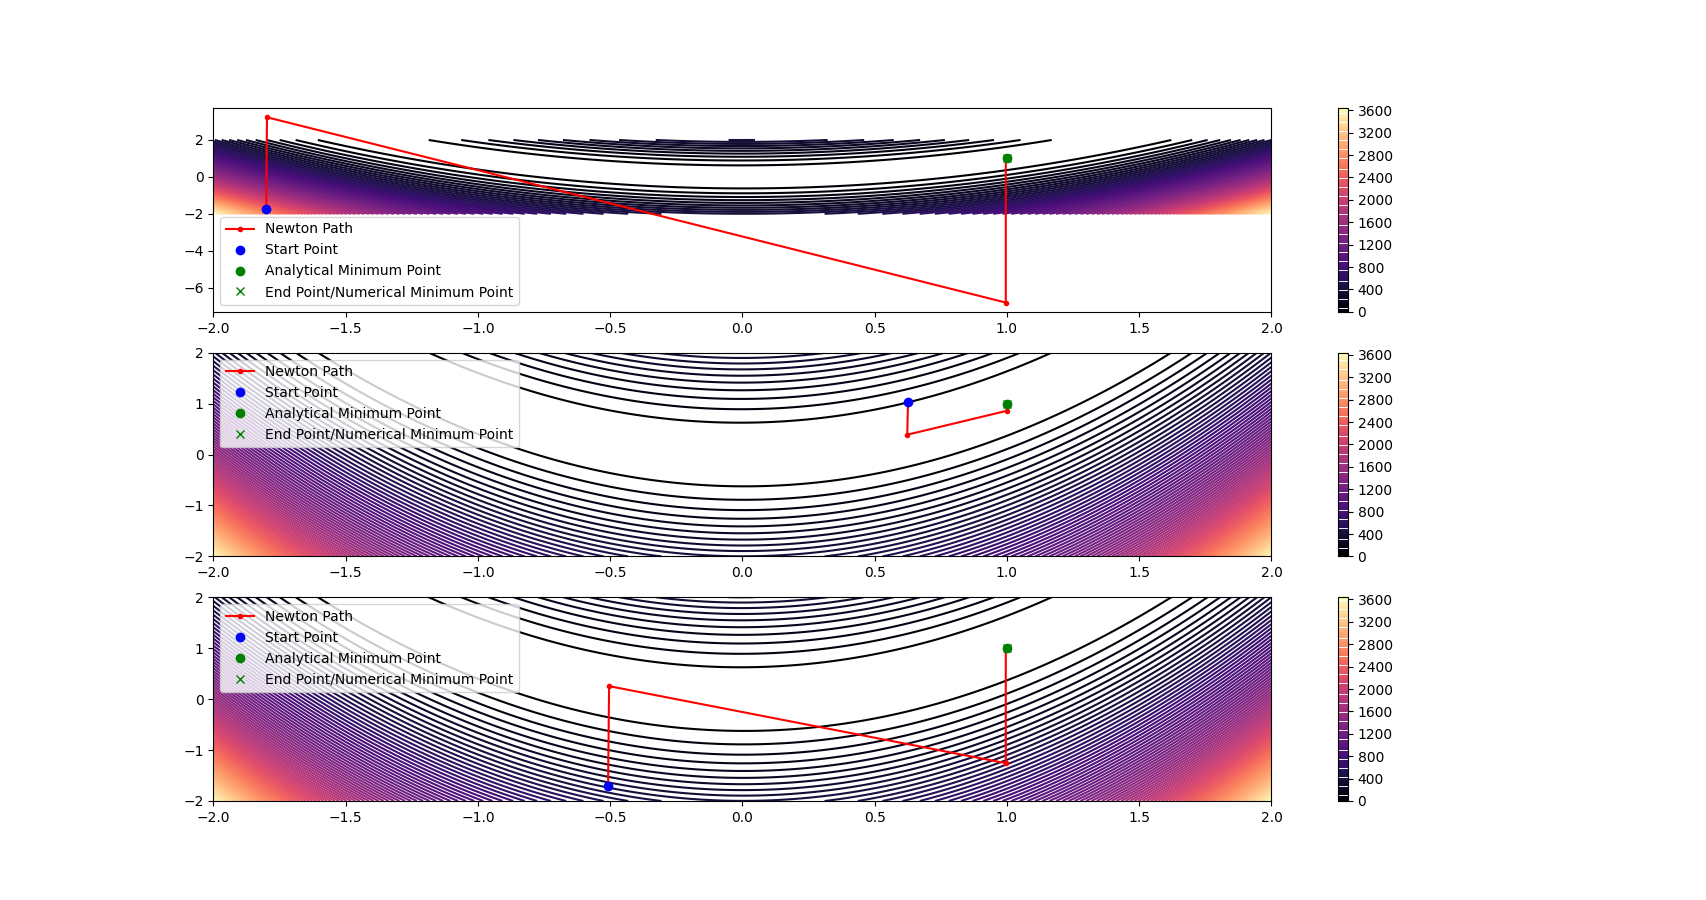
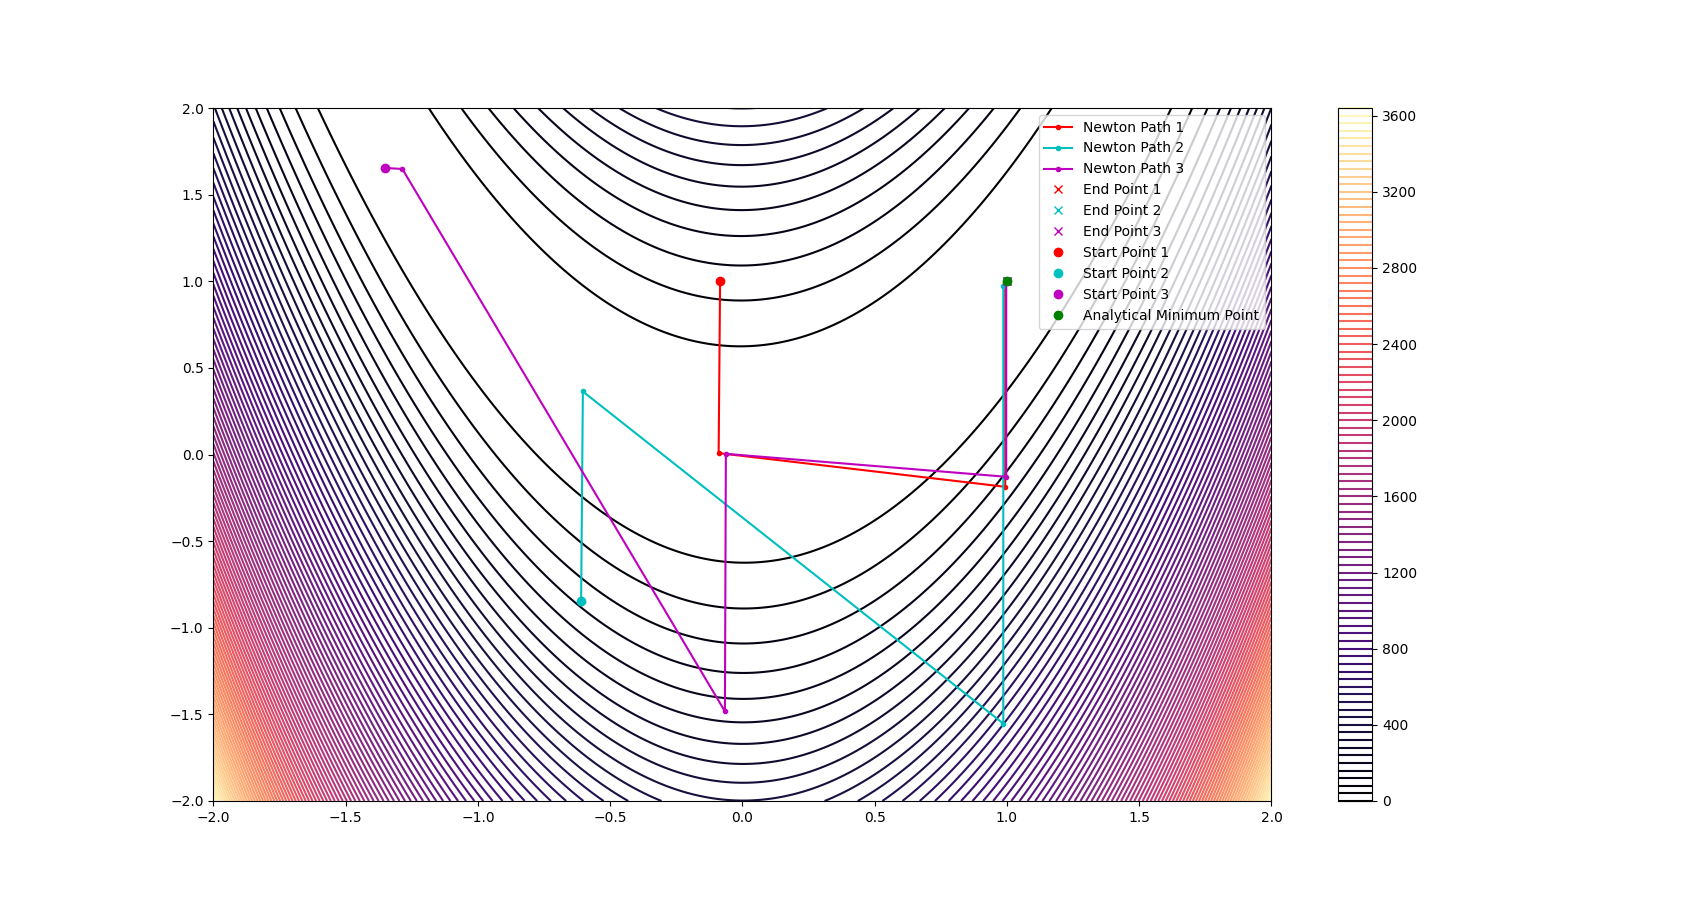
Improvements to consolidate all plots on same axes in Task 2

Changed region(s): [[0.0932, 0.1244, 0.7456, 0.9022], [0.7767, 0.1244, 0.8388, 0.9022]]

diff --git a/task2.py b/task2.py
@@ -15,13 +15,9 @@ f = 100*(y-x**2)**2 + (1-x)**2
 # plt.show()
 
 # Create 2D contour plots
-fig2, ax2 = plt.subplots(3, 1)           # 2D axes (not projection='3d')
-contour1 = ax2[0].contour(x, y, f, 100, cmap='magma')
-contour2 = ax2[1].contour(x, y, f, 100, cmap='magma')
-contour3 = ax2[2].contour(x, y, f, 100, cmap='magma')
-fig2.colorbar(contour1)
-fig2.colorbar(contour2)
-fig2.colorbar(contour3)
+fig2, ax2 = plt.subplots(1, 1)           # 2D axes (not projection='3d')
+contour = ax2.contour(x, y, f, 100, cmap='magma')
+fig2.colorbar(contour)
 
 # GRADIENT DESCENT START
 # Calculate gradient of the Rosenbrock function at a given point
@@ -86,32 +82,29 @@ learning_rate = 0.001
 iterations = 20000
 
 # Choose gradient descent, Newton's method, or Gauss-Newton method
-path1 = gradient_descent(start_point1, learning_rate, iterations)
-path2 = gradient_descent(start_point2, learning_rate, iterations)
-path3 = gradient_descent(start_point3, learning_rate, iterations)
-# path1 = newtons_method(start_point1, 20)
-# path2 = newtons_method(start_point2, 20)
-# path3 = newtons_method(start_point3, 20)
+# path1 = gradient_descent(start_point1, learning_rate, iterations)
+# path2 = gradient_descent(start_point2, learning_rate, iterations)
+# path3 = gradient_descent(start_point3, learning_rate, iterations)
+path1 = newtons_method(start_point1, 20)
+path2 = newtons_method(start_point2, 20)
+path3 = newtons_method(start_point3, 20)
 # path1 = gauss_newton_method(start_point1, 20)
 # path2 = gauss_newton_method(start_point2, 20)
 # path3 = gauss_newton_method(start_point3, 20)
 
 # Plot the path on the above contour plot
-ax2[0].plot(path1[:,0], path1[:,1], 'r.-')  # Plot the path in red
-ax2[0].plot(start_point1[0], start_point1[1], 'bo')  # Starting point in blue
-ax2[0].plot(1, 1, 'go')  # Analytical minimum point in green dot
-ax2[0].plot(path1[-1,0], path1[-1,1], 'gx')  # Ending point in green cross
-ax2[0].legend(['Gradient Descent Path', 'Start Point', 'Analytical Minimum Point', 'End Point/Numerical Minimum Point'])
-ax2[1].plot(path2[:,0], path2[:,1], 'r.-')  # Plot the path in red
-ax2[1].plot(start_point2[0], start_point2[1], 'bo')  # Starting point in blue
-ax2[1].plot(1, 1, 'go')  # Analytical minimum point in green dot
-ax2[1].plot(path2[-1,0], path2[-1,1], 'gx')  # Ending point in green cross
-ax2[1].legend(['Gradient Descent Path', 'Start Point', 'Analytical Minimum Point', 'End Point/Numerical Minimum Point'])
-ax2[2].plot(path3[:,0], path3[:,1], 'r.-')  # Plot the path in red
-ax2[2].plot(start_point3[0], start_point3[1], 'bo')  # Starting point in blue
-ax2[2].plot(1, 1, 'go')  # Analytical minimum point in green dot
-ax2[2].plot(path3[-1,0], path3[-1,1], 'gx')  # Ending point in green cross
-ax2[2].legend(['Gradient Descent Path', 'Start Point', 'Analytical Minimum Point', 'End Point/Numerical Minimum Point'])
+ax2.plot(path1[:,0], path1[:,1], 'r.-', label='Newton Path 1')  # Plot the path in red
+ax2.plot(path2[:,0], path2[:,1], 'c.-', label='Newton Path 2')  # Plot the path in cyan
+ax2.plot(path3[:,0], path3[:,1], 'm.-', label='Newton Path 3')  # Plot the path in magenta
+ax2.plot(path1[-1,0], path1[-1,1], 'rx', label='End Point 1')  # Ending point in red cross
+ax2.plot(path2[-1,0], path2[-1,1], 'cx', label='End Point 2')  # Ending point in cyan cross
+ax2.plot(path3[-1,0], path3[-1,1], 'mx', label='End Point 3')  # Ending point in magenta cross
+ax2.plot(start_point1[0], start_point1[1], 'ro', label='Start Point 1')  # Starting point in red
+ax2.plot(start_point2[0], start_point2[1], 'co', label='Start Point 2')  # Starting point in cyan
+ax2.plot(start_point3[0], start_point3[1], 'mo', label='Start Point 3')  # Starting point in magenta
+
+ax2.plot(1, 1, 'go', label='Analytical Minimum Point')  # Analytical minimum point in green dot
+ax2.legend()
 
 plt.show()
 
